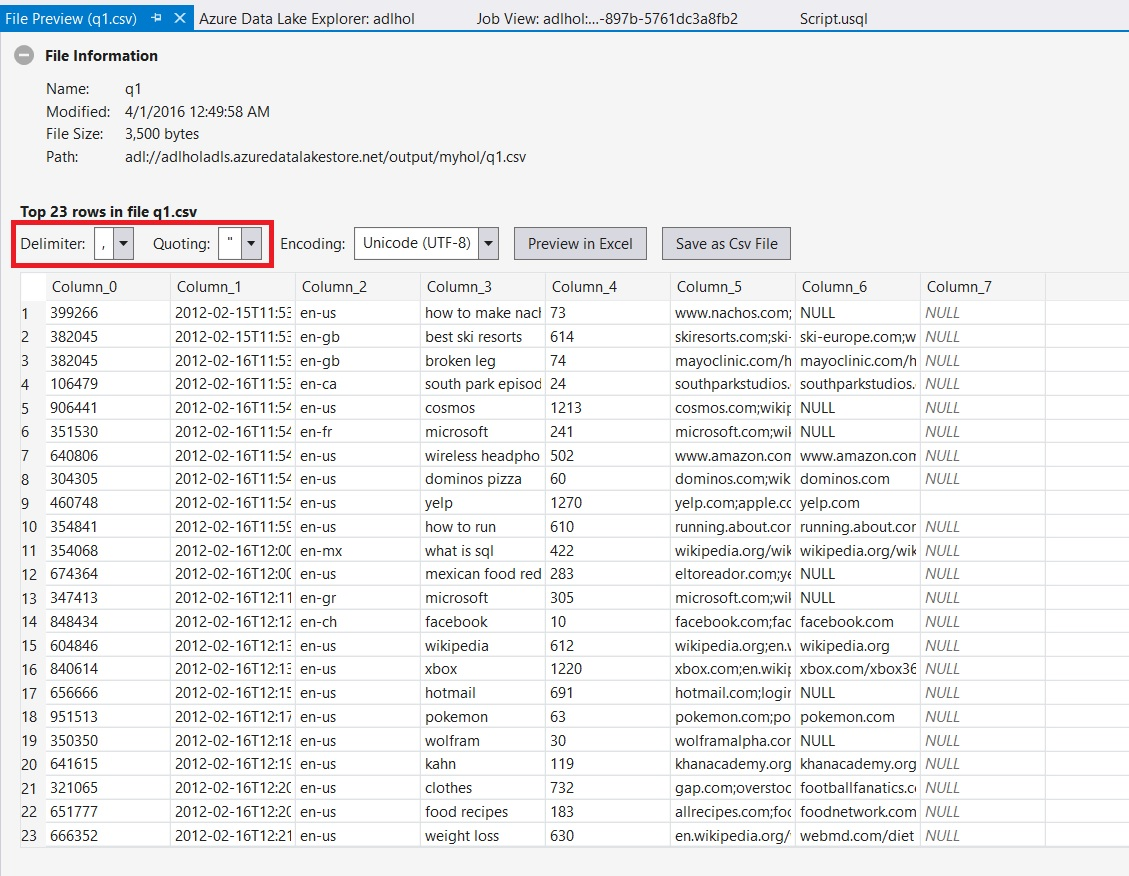
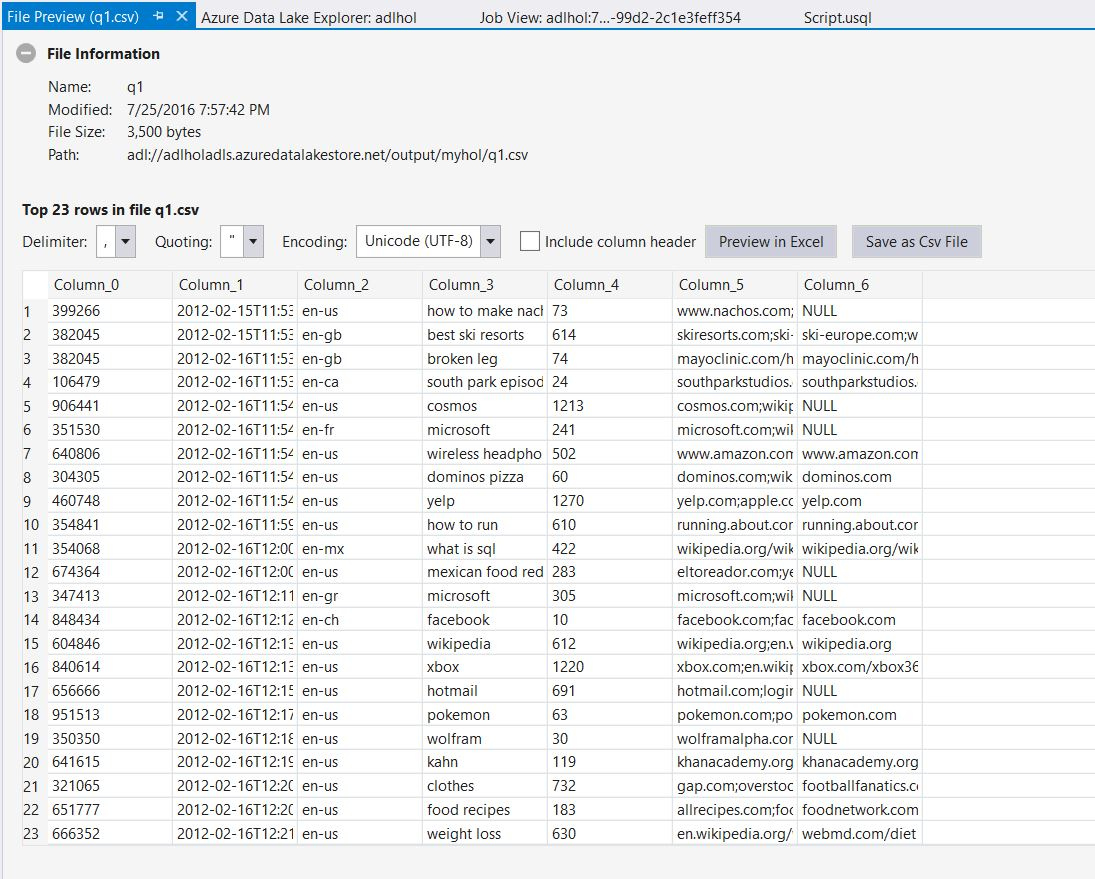
Updated HOL and ILL
Fixed some formatting issues. Updated CREATE TABLE to new syntax and
updated some pictures for new tool version.

Changed region(s): [[0.0, 0.2158, 1.0, 0.9863], [0.0, 0.0, 1.0, 0.1849]]

diff --git a/docs/Hands_on_Labs/USQL_HOL.md b/docs/Hands_on_Labs/USQL_HOL.md
@@ -57,7 +57,7 @@ In this exercise you will submit a U-SQL script that reads data from an input fi
         TO "/output/<replace_this_with_your_output_name>.csv"
         USING Outputters.Csv();
 
-2. Change the name of the output file from *<replace_this_with_your_output_name>* to something unique.
+2. Change the name of the output file from *&lt;replace_this_with_your_output_name&gt;* to something unique.
 3. Submit your script. 
 	
 > NOTE: This U-SQL script has no transformation step. It reads from an input file called SearchLog.tsv, schematizes the data during the read process, and then outputs the intermediate rowset back into the file whose name you specified. The **Duration** field could be null or of type int, while the **UserId** cannot be null. Note that the C# **string** type is always nullable.
@@ -95,7 +95,7 @@ In this exercise, you will introduce scalar variables to make your scripts easie
 	    TO @out
 	    USING Outputters.Csv();
     
-2. As before, change the name of the output file from *<replace_this_with_your_output_name>* to something unique.
+2. As before, change the name of the output file from *&lt;replace_this_with_your_output_name&gt;* to something unique.
 3. Submit your script, and verify that the result is the same as that of Exercise 1.
 
 # Exercise 3: Transforming your rowset
@@ -125,7 +125,7 @@ First let's do a simple filter. Since the data is in a file and you have to prod
     	TO "/output/<replace_this_with_your_output_name>.csv"
     	USING Outputters.Csv();
     
-2. Change the name of the output file from *<replace_this_with_your_output_name>* to something unique.
+2. Change the name of the output file from *&lt;replace_this_with_your_output_name&gt;* to something unique.
 3. Submit your script. 
 
     > Note that the WHERE clause is using a boolean C# expression and thus the comparison operation is == (and not the = sign you may be familiar with from traditional SQL).
@@ -208,7 +208,7 @@ In many cases, you will want to perform some analytics as part of your queries. 
     	ORDER BY TotalDuration DESC
     	USING Outputters.Csv();
     
-2. Change the name of the output file from *<replace_this_with_your_output_name>* to something unique.
+2. Change the name of the output file from *&lt;replace_this_with_your_output_name&gt;* to something unique.
 3. Submit your script. 
 	
 	The query you just submitted finds the total duration per region and then outputs the top five durations in order. Rowsets in U-SQL do not preserve their order for the next query. Thus, if you want an ordered output, you must add the ORDER BY clause to the OUTPUT statement.
@@ -282,7 +282,7 @@ Since we  used the same EXTRACT clause repeatedly in the previous examples, it m
 	    ORDER BY TotalDuration DESC
 	    USING Outputters.Csv();
     
-3. Change the name of the output file from *<replace_this_with_your_output_name>* to something unique, and then submit the script.
+3. Change the name of the output file from *&lt;replace_this_with_your_output_name&gt;* to something unique, and then submit the script.
 	
 # Exercise 6: Creating table-valued functions
 In this exercise, you will create a table-valued function.
@@ -314,7 +314,7 @@ Table-valued functions enable you to create more complex abstractions, by encaps
 	          
     The code you just added retrieves the **Start**, **Region**, and **Duration** fields for the default region.
 	
-3. Change the name of the output file from *<replace_this_with_your_output_name>* to something unique. 
+3. Change the name of the output file from *&lt;replace_this_with_your_output_name&gt;* to something unique. 
 4. Submit your script. 
   
 # Exercise 7: Creating tables
@@ -333,7 +333,7 @@ You will now persist the searchlog data in a schematized format in a table calle
 	- **SearchLog2** is created based on the view that encapsulates the extraction expression (essentially a CTAS). Note that for scalability, **U-SQL requires you to define the index** for the table before you can insert.
 - Insert the data into the **SearchLog1** table.
 
-1. Copy the following U-SQL script into the editor of your choice, and then submit your query:
+1. Copy the following U-SQL script into the editor of your choice, select a unique database name instead of *&lt;insert your DB name&gt;*, and then submit your query:
 
         DROP DATABASE IF EXISTS <insert your name>;
         CREATE DATABASE <insert your name>;
@@ -352,14 +352,14 @@ You will now persist the searchlog data in a schematized format in a table calle
                     ClickedUrls     string,
         
                     INDEX sl_idx CLUSTERED (UserId ASC) 
-                          PARTITIONED BY HASH (UserId) INTO 2
+                          DISTRIBUTED BY HASH (UserId) INTO 2
         );
 	
         INSERT INTO SearchLog1 SELECT * FROM master.dbo.SearchlogView;
 		
         CREATE TABLE SearchLog2(
                INDEX sl_idx CLUSTERED (UserId ASC) 
-               PARTITIONED BY HASH (UserId) INTO 2
+               DISTRIBUTED BY HASH (UserId) INTO 2
         ) AS SELECT * FROM master.dbo.SearchlogView; // You can use EXTRACT or SELECT in the AS clause
 
 You can now query the tables in the same way that you queried the unstructured data. Instead of creating a rowset using EXTRACT, you now can simply refer to the table name.
@@ -389,7 +389,7 @@ In this exercise, you will query data from the table you created in Exercise 7.
     
     > NOTE: Currently you cannot run a SELECT on a table in the same script as the script where you create that table.
 
-2. Change the name of the output file from *<replace_this_with_your_output_name>* to something unique. 
+2. Change the name of the output file from *&lt;replace_this_with_your_output_name&gt;* to something unique. 
 3. Submit your script. 
 
 # Exercise 9: Joining data
@@ -416,7 +416,7 @@ U-SQL includes many familiar join operators, such as INNER JOIN, LEFT/RIGHT/FULL
     	TO "/output/<replace_this_with_your_output_name>.csv"
     	USING Outputters.Csv();
 
-2. Change the name of the output file from *<replace_this_with_your_output_name>* to something unique. 
+2. Change the name of the database from *&lt;insert your DB name&gt;* to the database you selected earlier and change the name of the output file from *&lt;replace_this_with_your_output_name&gt;* to something unique. 
 3. Submit your script.		
 
 When you work with joins in U-SQL, note that:

diff --git a/docs/Hands_on_Labs/USQL_Selfguided_HOL.md b/docs/Hands_on_Labs/USQL_Selfguided_HOL.md
@@ -51,7 +51,7 @@ In this section you will open Visual Studio and use Azure Data Lake Tools for Vi
 
     - On the **File** menu, point to **New**, and then click **Project**.
 	  ![New Project](/docs/Hands_on_Labs/Images/NewProject.jpg)
-    - In the New Project dialog box, in the navigation pane, expand **Installed**, expand **Templates**, and then expand **U-SQL**.
+    - In the New Project dialog box, in the navigation pane, expand **Installed**, expand **Templates**, expand **Azure Data Lake**, and then expand **U-SQL**.
 	- In the center pane, click **U-SQL Project**.	 
 	  ![Create Project](/docs/Hands_on_Labs/Images/CreateProject.jpg)
     - In the **Name** box, give your project a name and then click **OK**.
@@ -104,7 +104,7 @@ For example, the following error is shown if you did not complete step 2 correct
 5. Finally check the result by opening the resulting file in the job view:
 	![Query Job View Resulting File](/docs/Hands_on_Labs/Images/q1_jobview_output.jpg)
 
-	The resulting file should resemble the following after setting the **Delimiter** to `,` and the **Quoting** to `"`:
+	The resulting file should resemble the following:
 	![Query 1 Result](/docs/Hands_on_Labs/Images/q1_result.jpg)
 
 	
@@ -375,23 +375,14 @@ Table-valued functions enable you to create more complex abstractions, by encaps
 	
     	DROP FUNCTION IF EXISTS RegionalSearchlog;
     	CREATE FUNCTION RegionalSearchlog(@region string = "en-gb") 
-    	RETURNS @searchlog TABLE
-	      (
-	                UserId          int,
-	                Start           DateTime,
-	                Region          string,
-	                Query           string,
-	                Duration        int?,
-	                Urls            string,
-	                ClickedUrls     string
-	      )
+    	RETURNS @searchlog
 	    AS BEGIN 
 	      @searchlog =
 	        SELECT * FROM SearchlogView
 	        WHERE Region == @region;
 	    END;
     
-	The code you just added defines a function named **RegionalSearchlog()** in the default database and schema. The function includes a **@region** parameter that enables you to filter the view you created in the previous step by region. The parameter has a default value of "en-gb". The first statement drops any existing definitions of the function and then creates the version that we want to use. You can now use the function in your queries.
+	The code you just added defines a function named **RegionalSearchlog()** in the default database and schema. The function includes a **@region** parameter that enables you to filter the view you created in the previous step by region. The parameter has a default value of "en-gb". The schema of the TVF is inferred from the final query assigned to **@searchlog**. The first statement drops any existing definitions of the function and then creates the version that we want to use. You can now use the function in your queries.
 
 2. Review the registration in the Visual Studio Server Explorer:
 	![Query 6 Server Explorer](/docs/Hands_on_Labs/Images/q6_tvf_explorer.jpg)
@@ -449,14 +440,14 @@ You will now persist the searchlog data in a schematized format in a table calle
 	                ClickedUrls     string,
 	
 	                INDEX sl_idx CLUSTERED (UserId ASC) 
-	                      PARTITIONED BY HASH (UserId) INTO 4
+	                      DISTRIBUTED BY HASH (UserId) INTO 4
 	      );
 	
 	    INSERT INTO SearchLog1 SELECT * FROM master.dbo.SearchlogView;
 		
 	    CREATE TABLE SearchLog2(
                    INDEX sl_idx CLUSTERED (UserId ASC) 
-                   PARTITIONED BY HASH (UserId) INTO 4
+                   DISTRIBUTED BY HASH (UserId) INTO 4
 	    ) AS SELECT * FROM master.dbo.SearchlogView; // You can use EXTRACT or SELECT in the AS clause
 
 2. Replace the string *&lt;insert your name&gt;* with a unique database name of your choosing.
